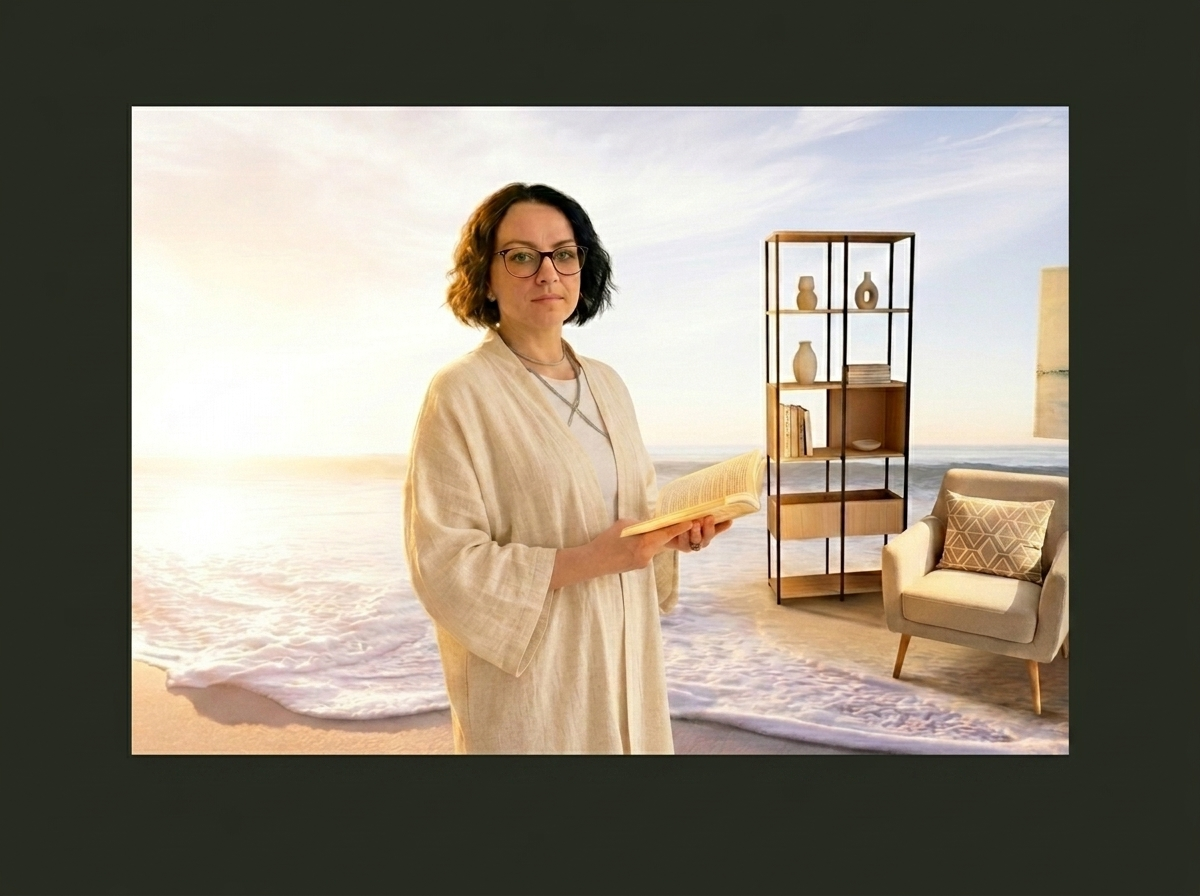
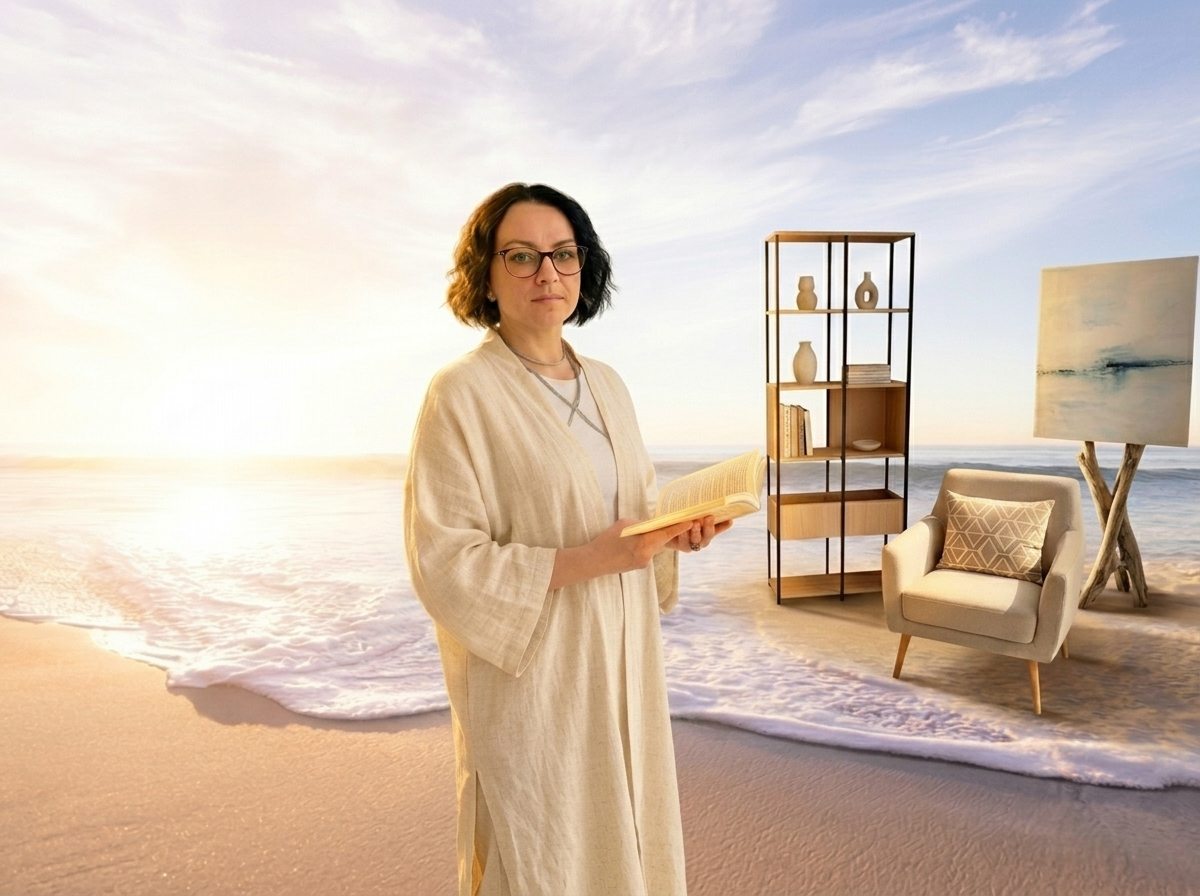
Add files via upload

diff --git a/index.html b/index.html
@@ -98,7 +98,9 @@ section{scroll-margin-top:72px;}
 .hero-sub{font-size:clamp(1rem,1.4vw,1.15rem);color:rgba(236,229,216,.74);max-width:46ch;margin-bottom:32px;}
 .hero-actions{display:flex;flex-wrap:wrap;gap:12px;}
 .hero-meta{margin-top:28px;font-size:13px;color:rgba(236,229,216,.55);}
-.hero-media img{width:100%;object-fit:cover;object-position:center;aspect-ratio:16/9;}
+.hero-media{position:relative;border:1px solid rgba(236,229,216,.16);}
+.hero-media::after{content:"";position:absolute;inset:0;pointer-events:none;background:linear-gradient(160deg,rgba(38,42,33,.08),rgba(38,42,33,.34));}
+.hero-media img{width:100%;object-fit:cover;object-position:center;aspect-ratio:16/9;filter:saturate(.7) sepia(.1) contrast(1.04) brightness(.94);}
 @media(min-width:768px){.hero-media img{aspect-ratio:4/3;}}
 
 /* metaphor band */
